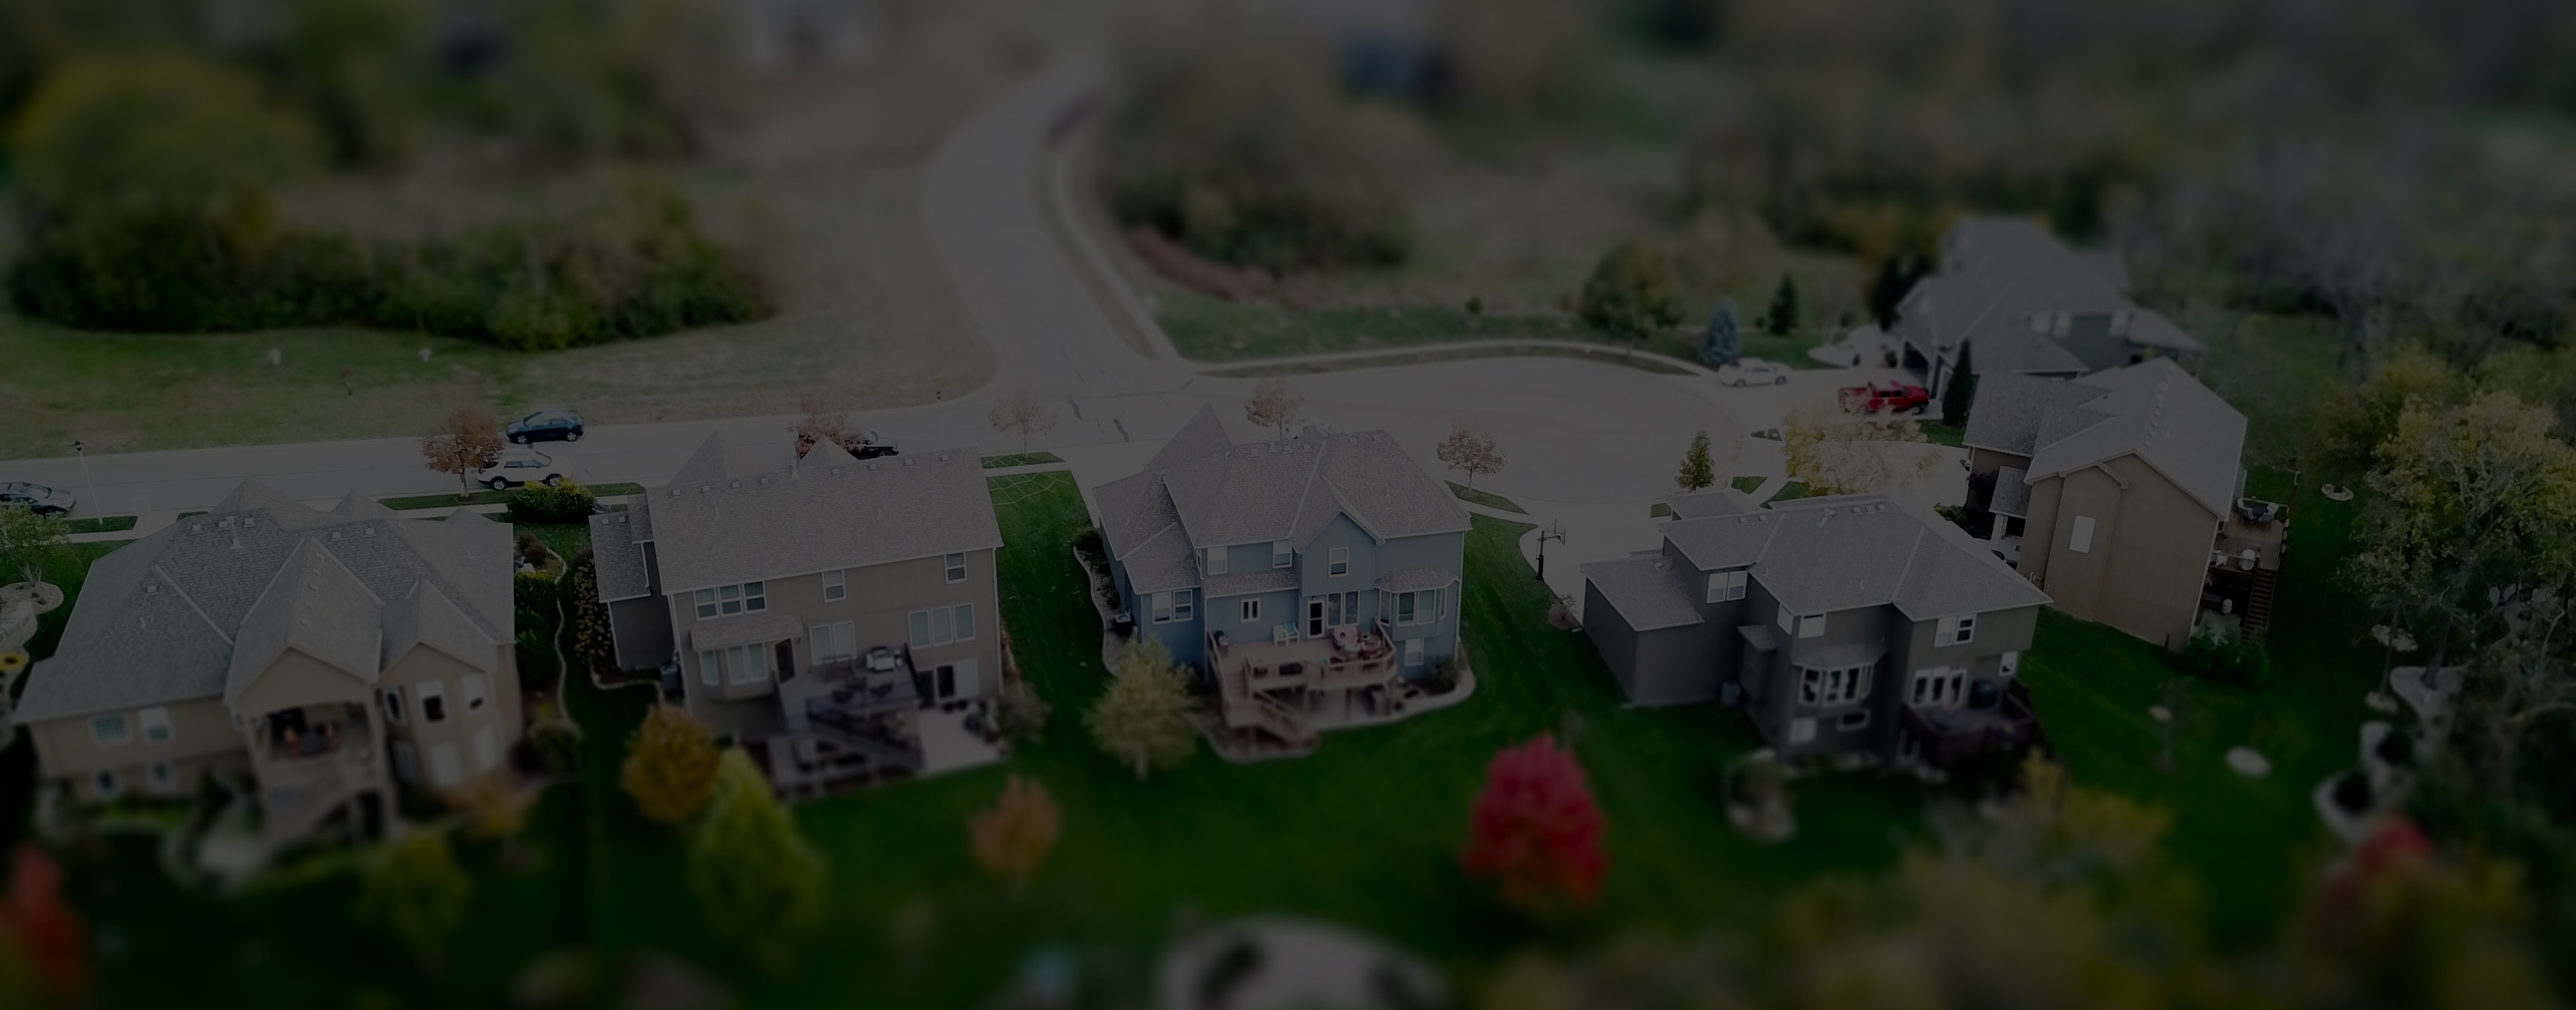
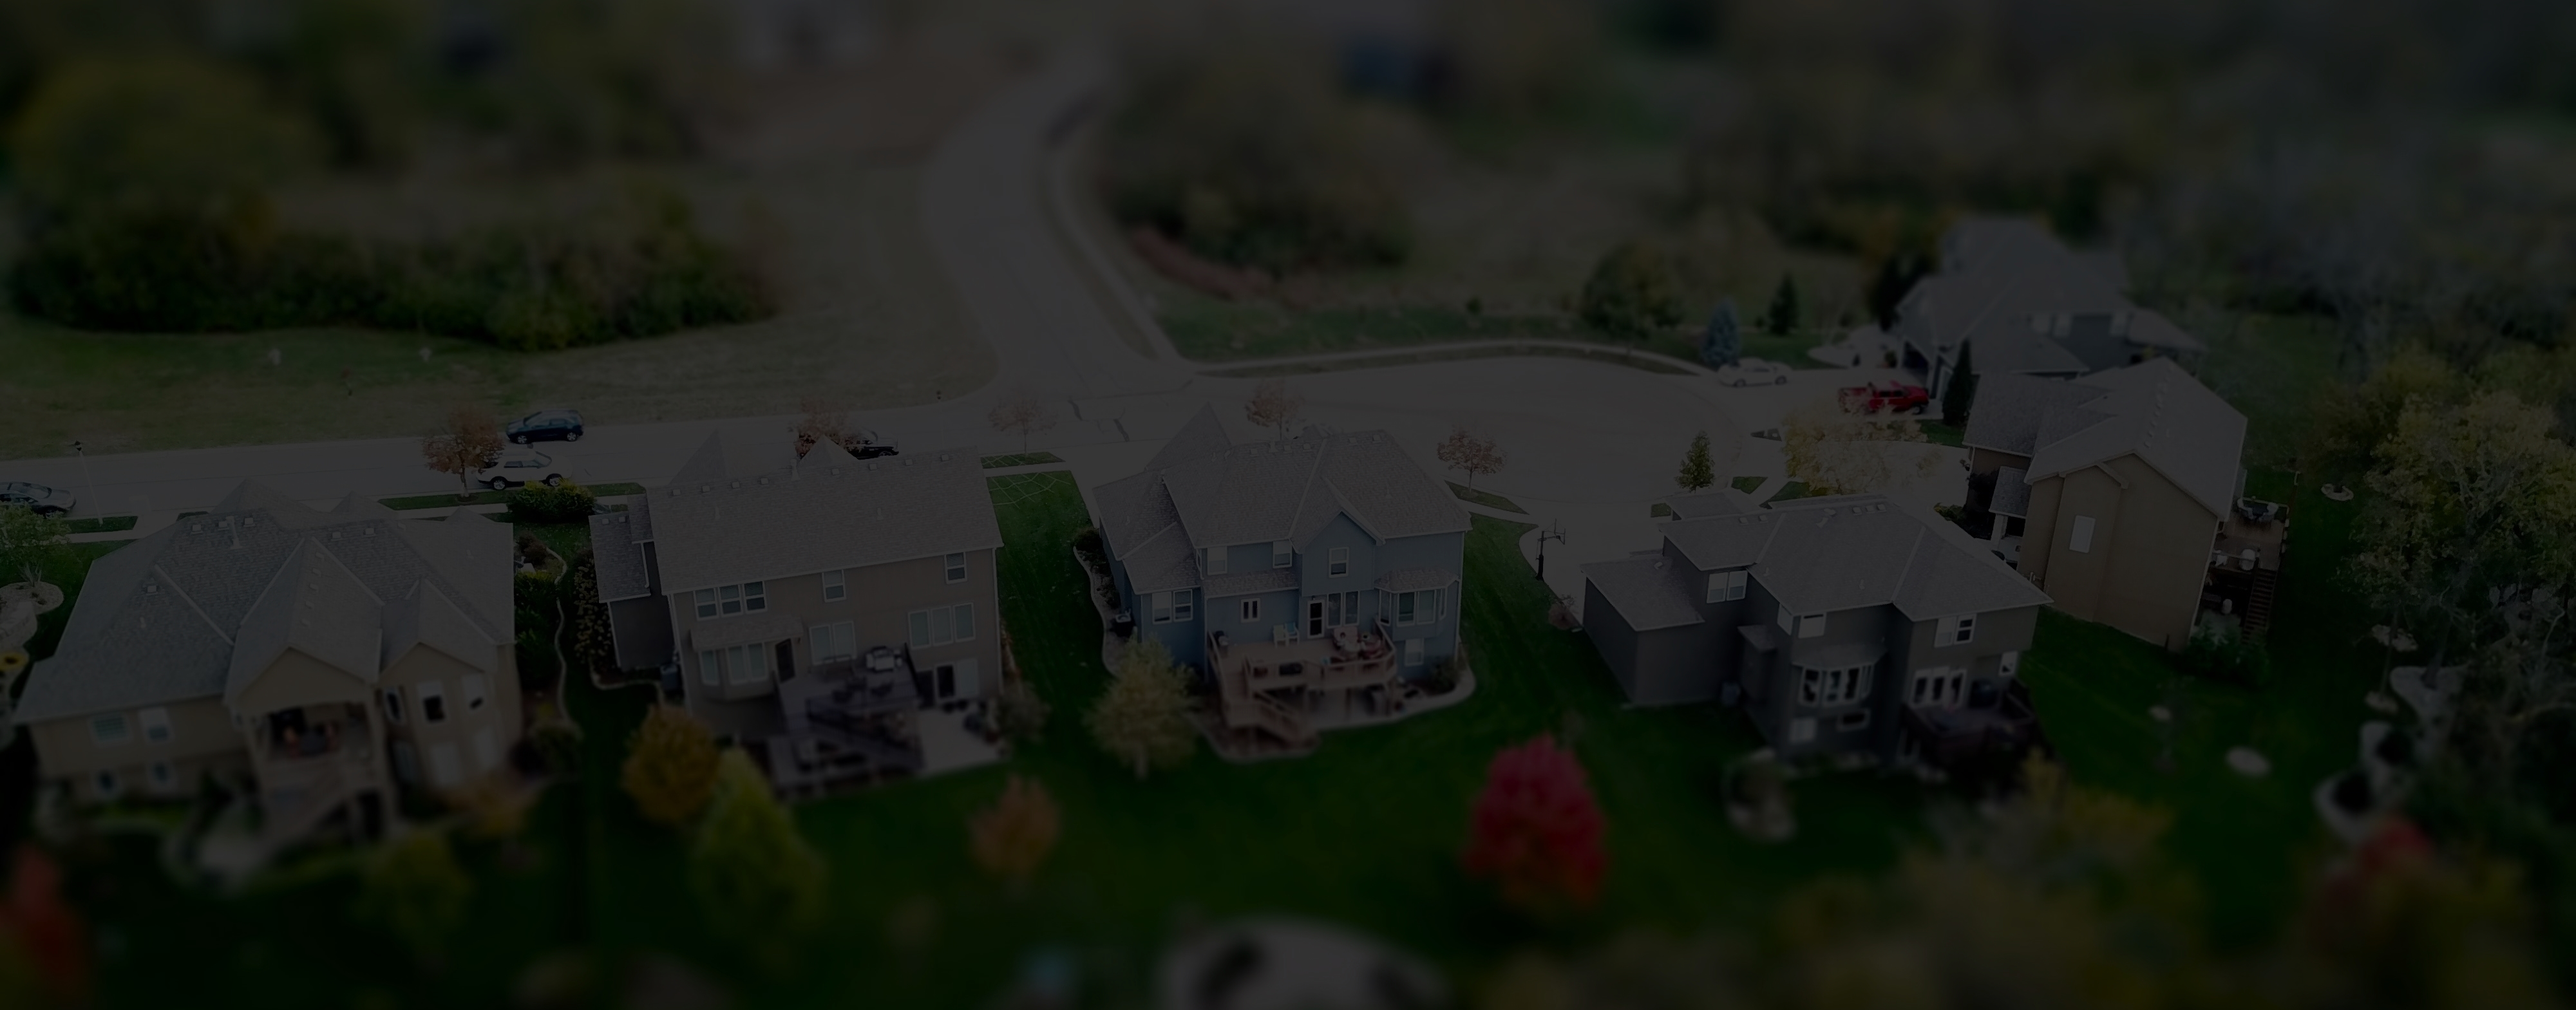
update

diff --git a/index.html b/index.html
@@ -6,7 +6,7 @@
     <meta name="viewport" content="width=device-width, initial-scale=1.0">
     <meta name="keywords" content="Alquileres, Ventas, Departamentos,casas,lotes,tasasiones,administracion">
     <meta name="description"
-    content=" Sábados de 9 a 13 hs. Av. San Martin 3028 Rio Ceballos, inmobilariasole@gmail.com Tel 03543- 155748596 
+    content=" Sábados de 9 a 13 hs. Lunes a Viernes de 9 a 13  17 a 20:30 Av. San Martin 3028 Rio Ceballos, inmobilariasole@gmail.com Tel 03543- 155748596 
     Empresa especializada en la venta, alquiler y administración de propiedades. Ubicados en el pleno centro de 
     Río Ceballos; Contamos con una amplia gama de inmuebles para brindar seguridad y responsabiliad, seriedad y Confianza a nuestros Clientes. 
     Tasaciones, AsesoramientoMercado inmobiliario de las Sierras Chicas de Córdoba. 

diff --git a/css/style.css b/css/style.css
@@ -444,7 +444,7 @@ template {
     padding: 1rem 0 3rem 0;
 }*/
 .inicio {
-  background-image: url(../assets/img/pexels-webp.webp);
+  background-image: url(../assets/img/pexels-jpg.jpg);
   padding: 1rem 0 5rem 0;
   background-size: cover;
   background-position: center center;

diff --git a/scss/sections/_header.scss b/scss/sections/_header.scss
@@ -11,7 +11,7 @@
      padding: 1rem 0 3rem 0;
  }*/
  .inicio {
-    background-image: url(../assets/img/pexels-webp.webp);
+    background-image: url(../assets/img/pexels-jpg.jpg);
     padding: 1rem 0 5rem 0;
     background-size: cover;
     background-position: center center;
